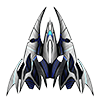
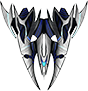
Se cambia formato de imagenes, se ajusta y se rota. Agrego validacion de enemigos en pantalla para no salir por eje x 0 y 1024.

diff --git a/Enemy.cpp b/Enemy.cpp
@@ -48,7 +48,6 @@ void Enemy::handleInputEnemy(std::list<Bullet>& bullets)
 {
 
     int randomLuck = (std::rand() % 10) + 1;
-    static sf::Clock shootClock;
     if ( shootClock.getElapsedTime().asSeconds() > 0.4f) 
     {
         std::cout << " balin enemigo " << std::endl;
@@ -61,6 +60,26 @@ void Enemy::handleInputEnemy(std::list<Bullet>& bullets)
 Enemy::~Enemy()
 {
 
+}
+
+bool Enemy::controlSprite(sf::Sprite& _sprite)
+{
+    sf::Vector2f position = _sprite.getPosition();
+    sf::FloatRect bounds = _sprite.getGlobalBounds();
+
+    if (bounds.left <= 0) {
+        _sprite.setPosition(0, position.y); 
+        _sprite.move(_speed, 0); 
+    }
+    else if (bounds.left + bounds.width >= 1024) {
+        _sprite.setPosition(1024 - bounds.width, position.y); 
+        _sprite.move(-_speed, 0); 
+    }
+    else {
+        return false;
+    }
+
+    return true;
 }
 
 

diff --git a/Enemy1.h b/Enemy1.h
@@ -16,7 +16,7 @@ public:
             std::cout << "error en carga de textura" << std::endl;
         }
         _sprite.setTexture(_texture);
-        _sprite.setPosition(x, y);
+        _sprite.setPosition(x, y +_sprite.getGlobalBounds().top);
         _speed = 2;
 		_life = 5;
     };

diff --git a/Enemy4.h b/Enemy4.h
@@ -14,8 +14,7 @@ public:
 			std::cout << "error en carga de textura" << std::endl;
 		}
 		_sprite.setTexture(_texture);
-		_sprite.setPosition(x, y);
-		_sprite.setRotation(180.f);
+		_sprite.setPosition(x, y + _sprite.getGlobalBounds().top);
 		_speed = 2.5;
 		_life = 5;
 	};

diff --git a/Enemy2.h b/Enemy2.h
@@ -14,8 +14,7 @@ public:
 			std::cout << "error en carga de textura" << std::endl;
 		}
 		_sprite.setTexture(_texture);
-		_sprite.setPosition(x, y);
-		_sprite.setRotation(180.f);
+		_sprite.setPosition(x, y + _sprite.getGlobalBounds().top);
 		_speed = 3;
 		_life = 5;
 	};

diff --git a/Enemy3.h b/Enemy3.h
@@ -14,8 +14,7 @@ public:
 			std::cout << "error en carga de textura" << std::endl;
 		}
 		_sprite.setTexture(_texture);
-		_sprite.setPosition(x, y);
-		_sprite.setRotation(180.f);
+		_sprite.setPosition(x, y + _sprite.getGlobalBounds().top);
 		_speed = 1;
 		_life = 5;
 		

diff --git a/Enemy1.cpp b/Enemy1.cpp
@@ -15,7 +15,7 @@ void Enemy1::setLife(int life)
 void Enemy1::update()
 {
 	if (!controlSprite(_sprite)) {
-		int randomMove = (std::rand() % 2) + 1;
+		int randomMove = (std::rand() % 4) + 1;
 		switch (randomMove) {
 		case 1:
 			_sprite.move(_speed, 0); // der
